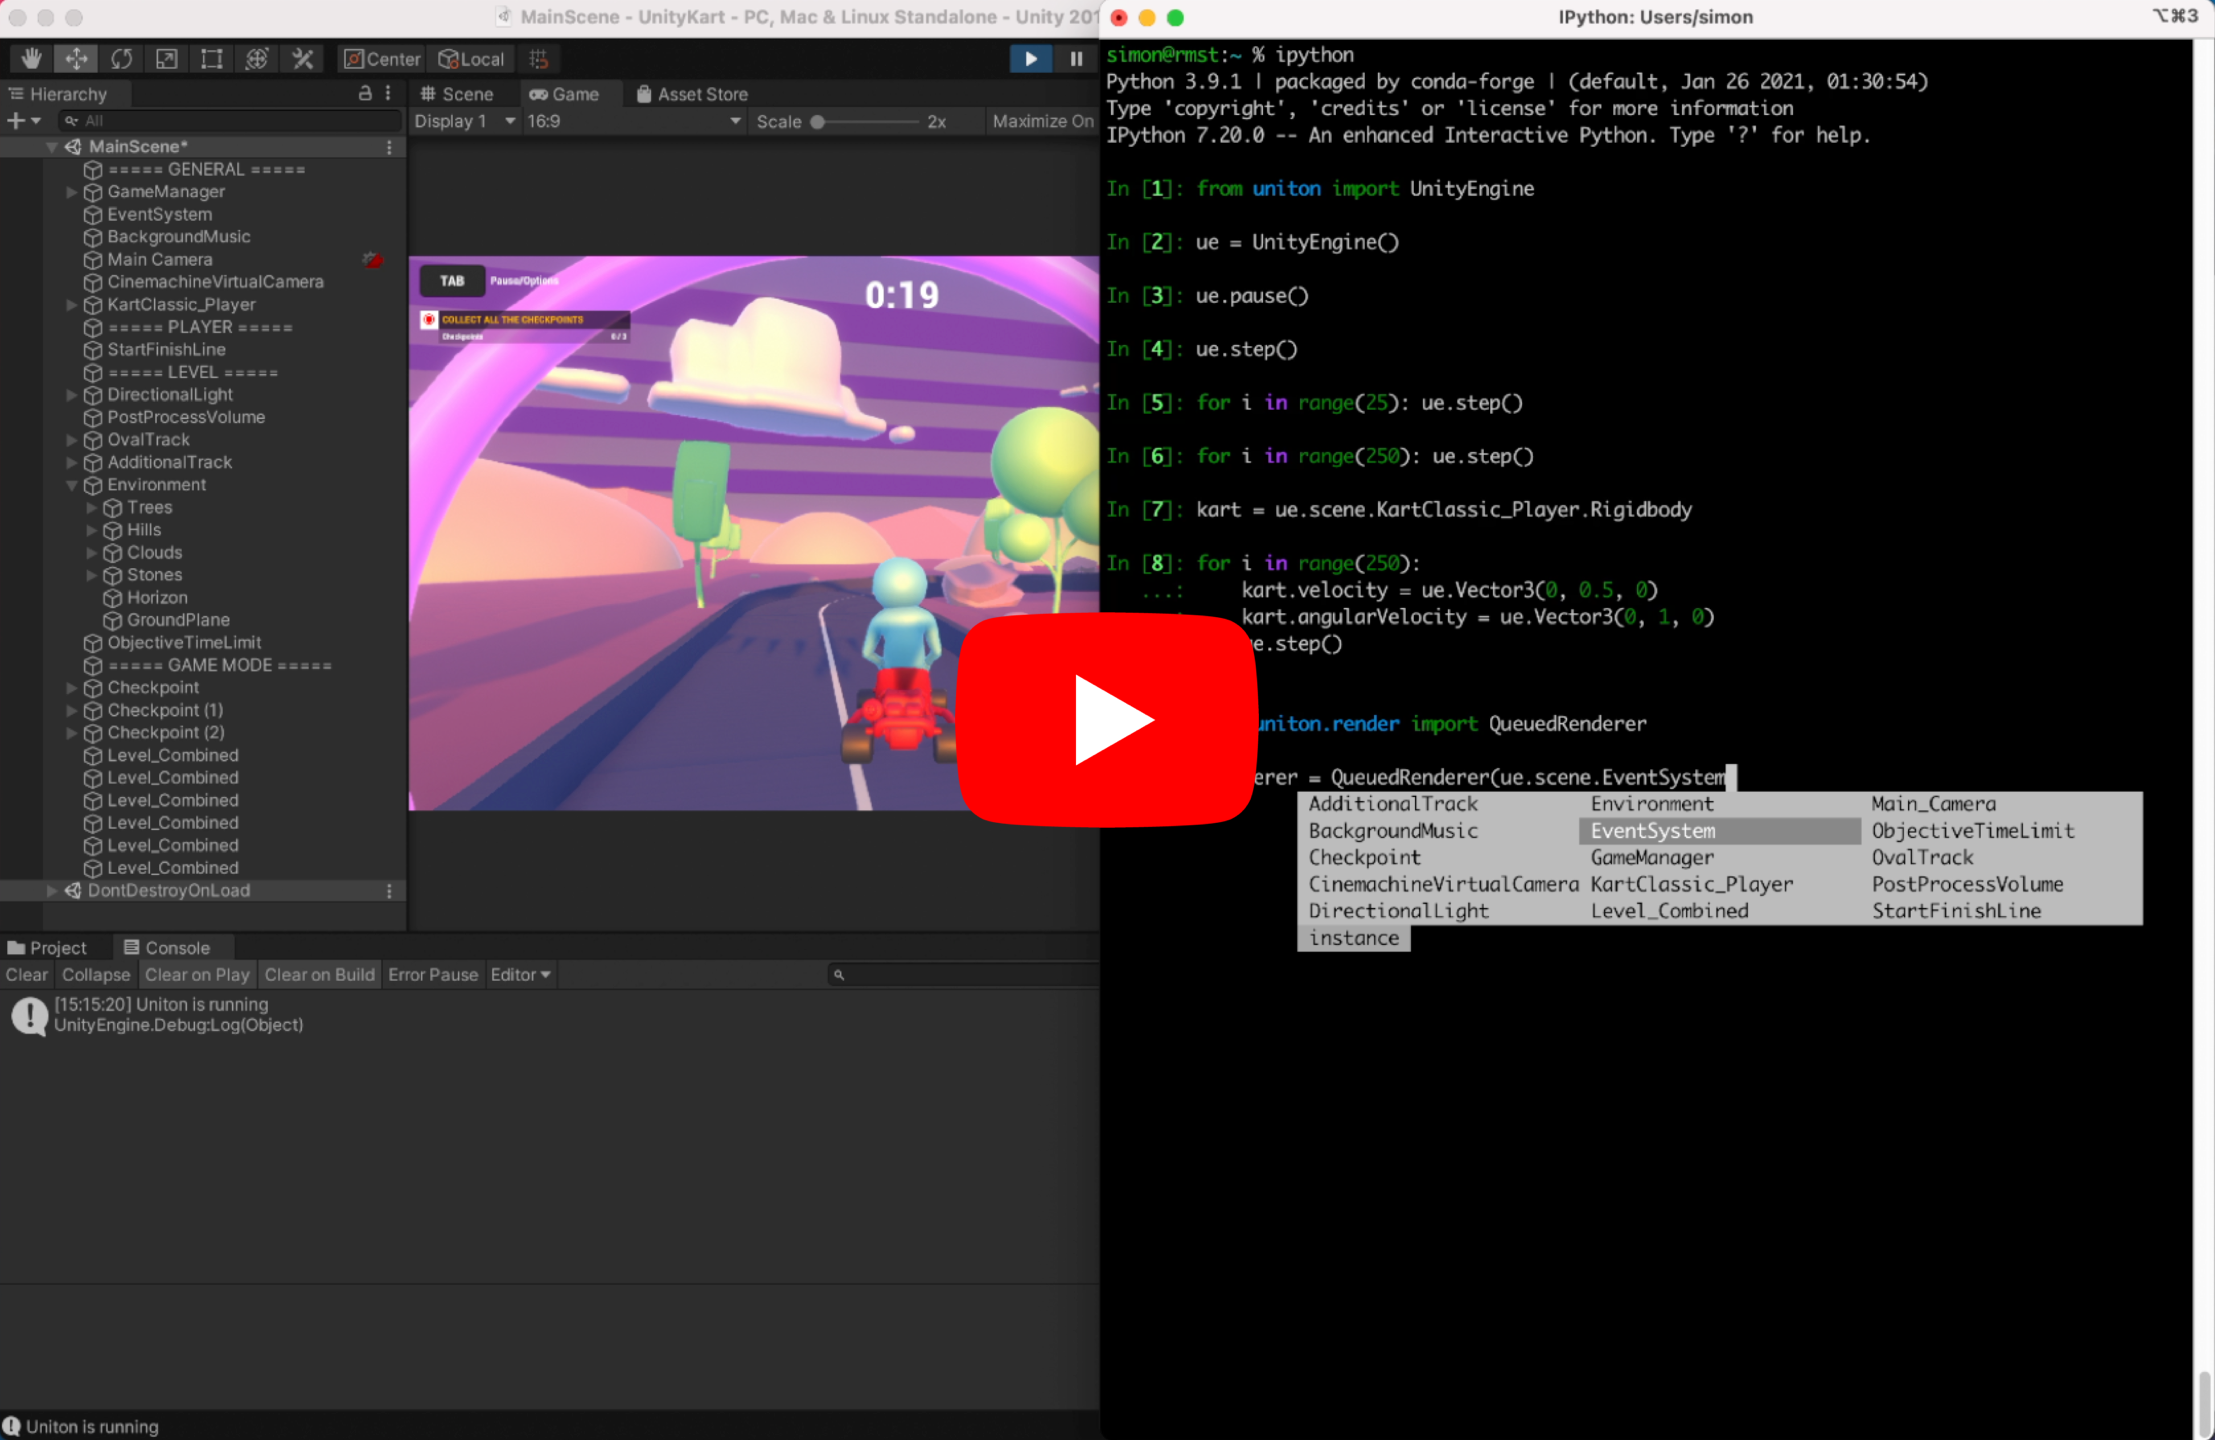
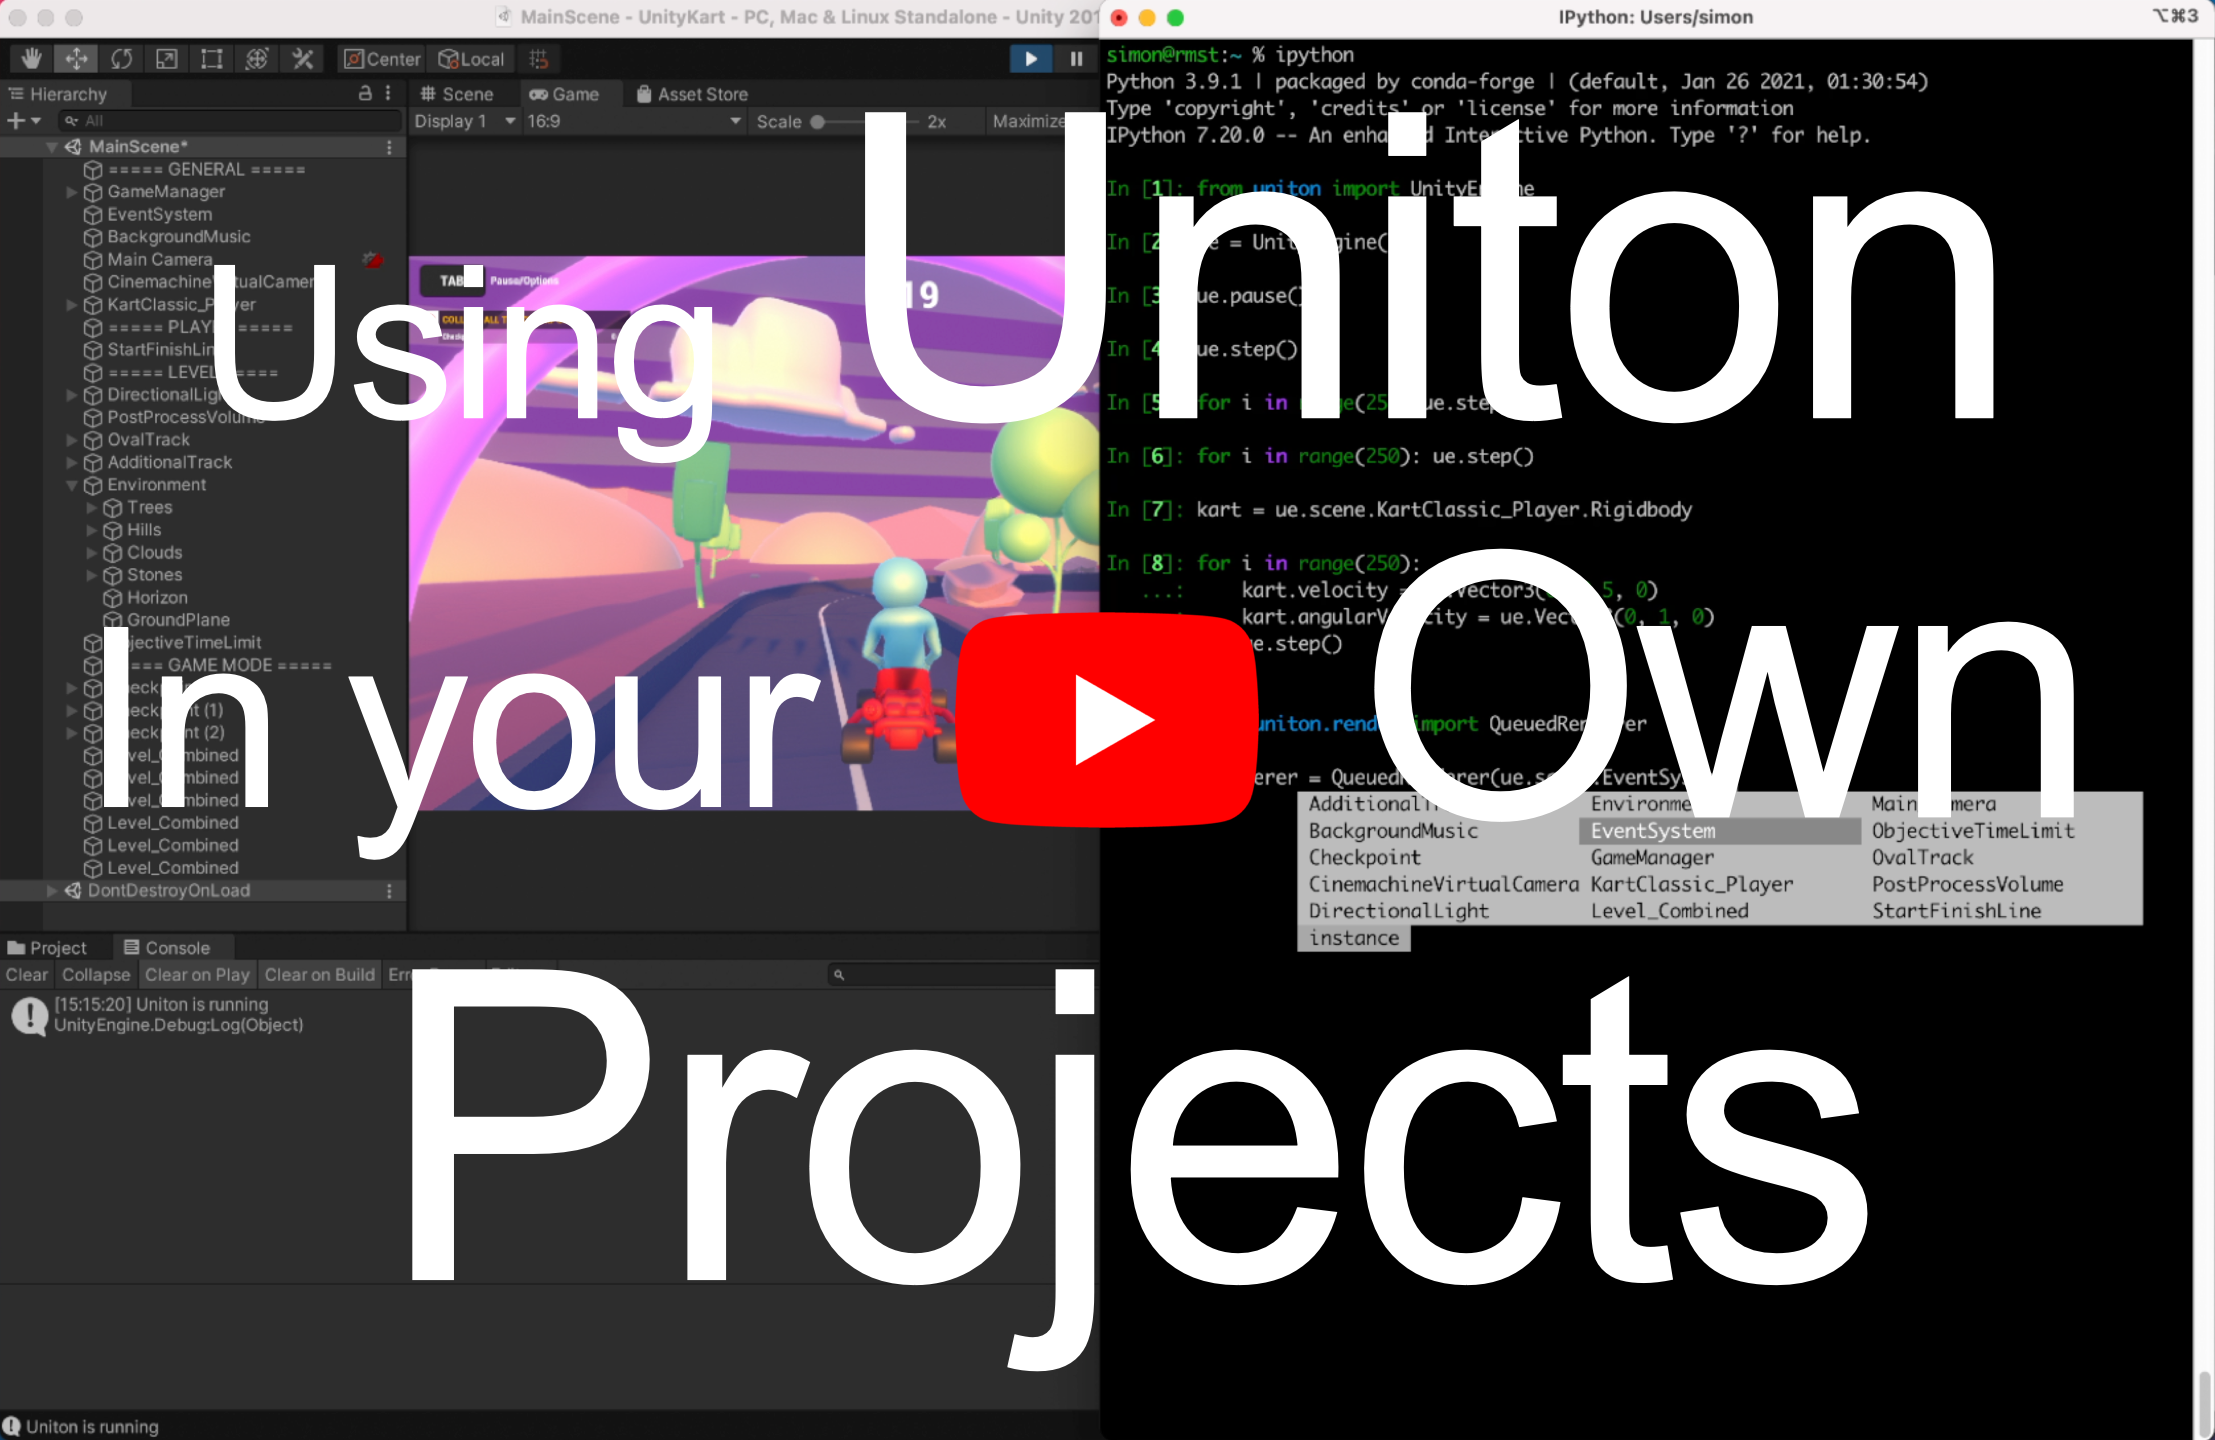
update readme

diff --git a/README.md b/README.md
@@ -4,7 +4,11 @@
 
 [comment]: <> ([![]&#40;./res/yt_thumbnail.png&#41;]&#40;https://www.youtube.com/watch?v=FIpt2yv623k&#41;)
 
-[<img src="./res/yt_thumbnail.png" width=70%/>](https://www.youtube.com/watch?v=FIpt2yv623k)
+<div>
+<img src="./res/screenshot1.png" width=46% style="padding: 1.5%;"/>
+<a href="https://www.youtube.com/watch?v=FIpt2yv623k"><img src="./res/yt_thumbnail.png" width=46% style="padding: 1.5%;"/></a>
+</div>
+<br><br>
 
 ### Features
 
